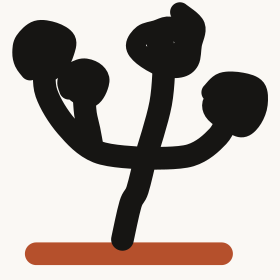
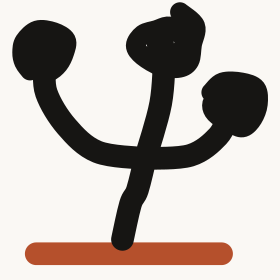
4.6.1: the small mark keeps three arms; the landing checks know Nimbus and heading anchors
At 16 to 48 px the fourth tuft only closed a light pocket against the left arm, which the menu bar seam check caught. The landing layout check looks for the Nimbus render now, and the footer link check strips a heading anchor before testing the path.

Claude-Session: https://claude.ai/code/session_01HqRJCaYJsnPaDkBuCZU92e

Changed region(s): [[0.2, 0.2, 0.4, 0.5143]]

diff --git a/kernel/boot_mark.h b/kernel/boot_mark.h
@@ -3928,103 +3928,103 @@ static const unsigned char menu_mark_cov[6400] __attribute__((unused)) = {
     255,255,255,255,255,255,255,255,255,255,255,255,255,255,255,255,255,104,0,0,
     0,0,0,0,0,0,0,0,0,0,0,0,0,0,0,0,0,0,0,0,
     0,0,0,88,255,255,255,255,255,255,255,255,255,255,255,255,255,255,255,255,
-    204,0,24,66,67,30,0,0,0,0,0,0,0,0,0,0,0,152,255,255,
+    204,0,0,0,0,0,0,0,0,0,0,0,0,0,0,0,0,152,255,255,
     255,255,255,255,255,255,255,255,255,255,255,255,255,255,255,255,255,68,0,0,
     0,0,0,0,0,0,0,0,0,0,0,0,0,0,0,0,0,0,0,0,
     0,0,0,38,255,255,255,255,255,255,255,255,255,255,255,255,255,255,255,255,
-    182,203,255,255,255,255,209,95,6,0,0,0,0,0,0,0,0,2,158,255,
+    102,0,0,0,0,0,0,0,0,0,0,0,0,0,0,0,0,2,158,255,
     255,255,255,255,255,255,255,255,255,255,255,255,255,255,255,255,247,14,0,0,
     0,0,0,0,0,0,0,0,0,0,0,0,0,0,0,0,0,0,0,0,
-    0,0,0,0,210,255,255,255,255,255,255,255,255,255,255,255,255,255,255,255,
-    255,255,255,255,255,255,255,255,202,21,0,0,0,0,0,0,0,0,3,126,
+    0,0,0,0,210,255,255,255,255,255,255,255,255,255,255,255,255,255,255,218,
+    8,0,0,0,0,0,0,0,0,0,0,0,0,0,0,0,0,0,3,126,
     250,255,255,255,255,255,255,255,255,255,255,255,255,255,255,255,169,0,0,0,
     0,0,0,0,0,0,0,0,0,0,0,0,0,0,0,0,0,0,0,0,
-    0,0,0,0,82,255,255,255,255,255,255,255,255,255,255,255,255,255,255,255,
-    255,255,255,255,255,255,255,255,255,217,23,0,0,0,0,0,0,0,0,0,
+    0,0,0,0,82,255,255,255,255,255,255,255,255,255,255,255,255,255,255,69,
+    0,0,0,0,0,0,0,0,0,0,0,0,0,0,0,0,0,0,0,0,
     51,212,255,255,255,255,255,255,255,255,255,255,255,255,255,241,32,0,0,0,
     0,0,0,0,0,0,0,0,0,0,0,0,0,0,0,0,0,0,0,0,
-    0,0,0,0,0,175,255,255,255,255,255,255,255,255,255,255,255,255,255,255,
-    255,255,255,255,255,255,255,255,255,255,163,0,0,0,0,0,0,0,0,0,
+    0,0,0,0,0,175,255,255,255,255,255,255,255,255,255,255,255,255,126,0,
+    0,0,0,0,0,0,0,0,0,0,0,0,0,0,0,0,0,0,0,0,
     0,7,114,245,255,255,255,255,255,255,255,255,255,255,237,58,0,0,0,0,
     0,0,18,77,126,136,138,112,86,54,5,0,0,0,0,0,0,0,0,0,
-    0,0,0,0,0,19,219,255,255,255,255,255,255,255,255,255,255,255,255,255,
-    255,255,255,255,255,255,255,255,255,255,249,18,0,0,0,0,0,0,0,0,
+    0,0,0,0,0,19,219,255,255,255,255,255,255,255,255,255,255,128,0,0,
+    0,0,0,0,0,0,0,0,0,0,0,0,0,0,0,0,0,0,0,0,
     0,0,0,137,255,255,255,255,255,255,255,255,237,150,26,0,0,0,0,0,
     9,124,242,255,255,255,255,255,255,255,243,183,105,9,0,0,0,0,0,0,
-    0,0,0,0,0,0,33,183,239,231,255,255,255,255,255,252,188,255,255,255,
-    255,255,255,255,255,255,255,255,255,255,255,55,0,0,0,0,0,0,0,0,
+    0,0,0,0,0,0,33,183,239,231,255,255,255,255,255,252,78,0,0,0,
+    0,0,0,0,0,0,0,0,0,0,0,0,0,0,0,0,0,0,0,0,
     0,0,0,151,255,255,255,255,255,239,74,42,3,0,0,0,0,0,0,17,
     198,255,255,255,255,255,255,255,255,255,255,255,255,230,58,0,0,0,0,0,
-    0,0,0,0,0,0,0,0,0,132,255,255,255,255,255,244,151,255,255,255,
-    255,255,255,255,255,255,255,255,255,255,255,58,0,0,0,0,0,0,0,0,
+    0,0,0,0,0,0,0,0,0,132,255,255,255,255,255,244,0,0,0,0,
+    0,0,0,0,0,0,0,0,0,0,0,0,0,0,0,0,0,0,0,0,
     0,0,0,169,255,255,255,255,255,214,0,0,0,0,0,0,0,0,9,200,
     255,255,255,255,255,255,255,255,255,255,255,255,255,255,245,63,0,0,0,0,
-    0,0,0,0,0,0,0,0,0,118,255,255,255,255,255,255,148,255,255,255,
-    255,255,255,255,255,255,255,255,255,255,252,17,0,0,0,0,0,0,0,0,
+    0,0,0,0,0,0,0,0,0,118,255,255,255,255,255,255,25,0,0,0,
+    0,0,0,0,0,0,0,0,0,0,0,0,0,0,0,0,0,0,0,0,
     0,0,0,188,255,255,255,255,255,195,0,0,0,0,0,0,0,1,171,255,
     255,255,255,255,255,255,255,255,255,255,255,255,255,255,255,204,0,0,0,0,
-    0,0,0,0,0,0,0,0,0,70,255,255,255,255,255,255,134,255,255,255,
-    255,255,255,255,255,255,255,255,255,255,189,0,0,0,0,0,0,0,0,0,
+    0,0,0,0,0,0,0,0,0,70,255,255,255,255,255,255,86,0,0,0,
+    0,0,0,0,0,0,0,0,0,0,0,0,0,0,0,0,0,0,0,0,
     0,0,0,210,255,255,255,255,255,176,0,0,0,0,0,0,0,69,255,255,
     255,255,255,255,255,255,255,255,255,255,255,255,255,255,255,255,60,0,0,0,
-    0,0,0,0,0,0,0,0,0,16,253,255,255,255,255,255,187,233,255,255,
-    255,255,255,255,255,255,255,255,255,255,92,0,0,0,0,0,0,0,0,0,
+    0,0,0,0,0,0,0,0,0,16,253,255,255,255,255,255,186,0,0,0,
+    0,0,0,0,0,0,0,0,0,0,0,0,0,0,0,0,0,0,0,0,
     0,0,0,243,255,255,255,255,255,148,0,0,0,0,0,0,0,107,255,255,
     255,255,255,255,255,255,255,255,255,255,255,255,255,255,255,255,111,0,0,0,
-    0,0,0,0,0,0,0,0,0,0,210,255,255,255,255,255,254,118,251,255,
-    255,255,255,255,255,255,255,255,255,212,3,0,0,0,0,0,0,0,0,0,
+    0,0,0,0,0,0,0,0,0,0,210,255,255,255,255,255,254,44,0,0,
+    0,0,0,0,0,0,0,0,0,0,0,0,0,0,0,0,0,0,0,0,
     0,0,22,255,255,255,255,255,255,114,0,0,0,0,0,0,0,52,254,255,
     255,255,255,255,255,255,255,255,255,255,255,255,255,255,255,255,137,0,0,0,
-    0,0,0,0,0,0,0,0,0,0,114,255,255,255,255,255,255,179,39,110,
-    227,255,255,255,255,255,255,255,246,54,0,0,0,0,0,0,0,0,0,0,
+    0,0,0,0,0,0,0,0,0,0,114,255,255,255,255,255,255,179,0,0,
+    0,0,0,0,0,0,0,0,0,0,0,0,0,0,0,0,0,0,0,0,
     0,0,56,255,255,255,255,255,255,80,0,0,0,0,0,0,0,7,240,255,
     255,255,255,255,255,255,255,255,255,255,255,255,255,255,255,255,131,0,0,0,
     0,0,0,0,0,0,0,0,0,0,17,245,255,255,255,255,255,255,65,0,
-    39,255,255,255,255,255,255,245,81,0,0,0,0,0,0,0,0,0,0,0,
+    0,0,0,0,0,0,0,0,0,0,0,0,0,0,0,0,0,0,0,0,
     0,0,104,255,255,255,255,255,255,46,0,0,0,0,0,0,0,30,255,255,
     255,255,255,255,255,255,255,255,255,255,255,255,255,255,255,255,124,0,0,0,
     0,0,0,0,0,0,0,0,0,0,0,147,255,255,255,255,255,255,217,9,
-    6,254,255,255,255,255,255,133,0,0,0,0,0,0,0,0,0,0,0,0,
+    0,0,0,0,0,0,0,0,0,0,0,0,0,0,0,0,0,0,0,0,
     0,0,163,255,255,255,255,255,249,9,0,0,0,0,0,0,0,34,255,255,
     255,255,255,255,255,255,255,255,255,255,255,255,255,255,255,255,93,0,0,0,
     0,0,0,0,0,0,0,0,0,0,0,23,242,255,255,255,255,255,255,139,
-    0,237,255,255,255,255,255,148,0,0,0,0,0,0,0,0,0,0,0,0,
+    0,0,0,0,0,0,0,0,0,0,0,0,0,0,0,0,0,0,0,0,
     0,0,223,255,255,255,255,255,198,0,0,0,0,0,0,0,0,17,248,255,
     255,255,255,255,255,255,255,255,255,255,255,255,255,255,255,255,30,0,0,0,
     0,0,0,0,0,0,0,0,0,0,0,0,125,255,255,255,255,255,255,253,
-    71,213,255,255,255,255,255,184,0,0,0,0,0,0,0,0,0,0,0,0,
+    71,0,0,0,0,0,0,0,0,0,0,0,0,0,0,0,0,0,0,0,
     0,28,255,255,255,255,255,255,139,0,0,0,0,0,0,0,0,0,163,255,
     255,255,255,255,255,255,255,255,255,255,255,255,255,255,255,222,0,0,0,0,
     0,0,0,0,0,0,0,0,0,0,0,0,10,219,255,255,255,255,255,255,
-    237,207,255,255,255,255,255,236,1,0,0,0,0,0,0,0,0,0,0,0,
+    237,33,0,0,0,0,0,0,0,0,0,0,0,0,0,0,0,0,0,0,
     0,95,255,255,255,255,255,255,80,0,0,0,0,0,0,0,0,0,42,240,
     255,255,255,255,255,255,255,255,255,255,255,255,255,255,255,122,0,0,0,0,
     0,0,0,0,0,0,0,0,0,0,0,0,0,63,253,255,255,255,255,255,
-    255,255,255,255,255,255,255,255,39,0,0,0,0,0,0,0,0,0,0,0,
+    255,211,16,0,0,0,0,0,0,0,0,0,0,0,0,0,0,0,0,0,
     0,167,255,255,255,255,255,253,20,0,0,0,0,0,0,0,0,0,0,63,
     247,255,255,255,255,255,255,255,255,255,255,255,255,255,239,15,0,0,0,0,
     0,0,0,0,0,0,0,0,0,0,0,0,0,0,147,255,255,255,255,255,
-    255,255,255,255,255,255,255,255,99,0,0,0,0,0,0,0,0,0,0,0,
+    255,255,192,8,0,0,0,0,0,0,0,0,0,0,0,0,0,0,0,0,
     3,237,255,255,255,255,255,203,0,0,0,0,0,0,0,0,0,0,0,0,
     117,255,255,255,255,255,255,255,255,255,255,255,255,255,111,0,0,0,0,0,
     0,0,0,0,0,0,0,0,0,0,0,0,0,0,8,203,255,255,255,255,
-    255,255,255,255,255,255,255,255,157,0,0,0,0,0,0,0,0,0,0,0,
+    255,255,255,181,8,0,0,0,0,0,0,0,0,0,0,0,0,0,0,0,
     57,255,255,255,255,255,255,131,0,0,0,0,0,0,0,0,0,0,0,18,
     224,255,255,255,255,255,255,255,255,255,255,255,255,172,1,0,0,0,0,0,
     0,0,0,0,0,0,0,0,0,0,0,0,0,0,0,31,235,255,255,255,
-    255,255,255,255,255,255,255,255,205,0,0,0,0,0,0,0,0,0,0,0,
+    255,255,255,255,184,10,0,0,0,0,0,0,0,0,0,0,0,0,0,0,
     131,255,255,255,255,255,255,58,0,0,0,0,0,0,0,0,0,0,18,205,
     255,255,255,255,255,255,255,255,255,255,255,255,197,14,0,0,0,0,0,0,
     0,0,0,0,0,0,0,0,0,0,0,0,0,0,0,0,64,248,255,255,
-    255,255,255,255,255,255,255,255,248,5,0,0,0,0,0,0,0,0,0,0,
+    255,255,255,255,255,209,37,0,0,0,0,0,0,0,0,0,0,0,0,0,
     208,255,255,255,255,255,238,3,0,0,0,0,0,0,0,0,0,31,211,255,
     255,255,255,255,255,255,199,245,255,255,240,128,8,0,0,0,0,0,0,0,
     0,0,0,0,0,0,0,0,0,0,0,0,0,0,0,0,0,86,253,255,
-    255,255,255,255,255,255,255,255,255,44,0,0,0,0,0,0,0,0,0,30,
+    255,255,255,255,255,255,240,104,4,0,0,0,0,0,0,0,0,0,0,30,
     255,255,255,255,255,255,167,0,0,0,0,0,0,0,0,0,73,232,255,255,
     255,255,255,255,255,205,6,5,46,38,7,0,0,0,0,0,0,0,0,0,
     0,0,0,0,0,0,0,0,0,0,0,0,0,0,0,0,0,0,108,254,
-    255,255,255,255,255,255,255,255,255,154,49,4,0,0,0,0,0,0,0,108,
+    255,255,255,255,255,255,255,255,221,121,49,4,0,0,0,0,0,0,0,108,
     255,255,255,255,255,255,90,0,0,0,0,0,0,0,42,164,255,255,255,255,
     255,255,255,255,244,39,0,0,0,0,0,0,0,0,0,0,0,0,0,0,
     0,0,0,0,0,0,0,0,0,0,0,0,0,0,0,0,0,0,0,107,

diff --git a/tools/gen/logo.py b/tools/gen/logo.py
@@ -167,9 +167,9 @@ def big():
 def small():
     """The tree drawn down its middle for 16 to 48 px: one heavy line per limb, a tight knot per tuft, and the ground."""
     rnd = random.Random(1932)
-    lines = [TRUNK] + [[TRUNK[-1]] + a[1:] for a in ARMS[:3]] + [LOW]   # the fourth arm leaves the long left arm
+    lines = [TRUNK] + [[TRUNK[-1]] + a[1:] for a in ARMS[:3]]   # three arms: at 16 to 48 px the fourth tuft only closes a light pocket against the left arm
     knots = []
-    for arm, r in zip(ARMS, SMALL_R):
+    for arm, r in zip(ARMS[:3], SMALL_R):
         cx, cy, _ = tip(arm, 3.0)
         knots.append(scribble(rnd, cx, cy, r, 3, 0.2, (0.6, 0.5)))
     ground = [(26, SMALL_GROUND_Y), (50, SMALL_GROUND_Y), (75, SMALL_GROUND_Y)]
